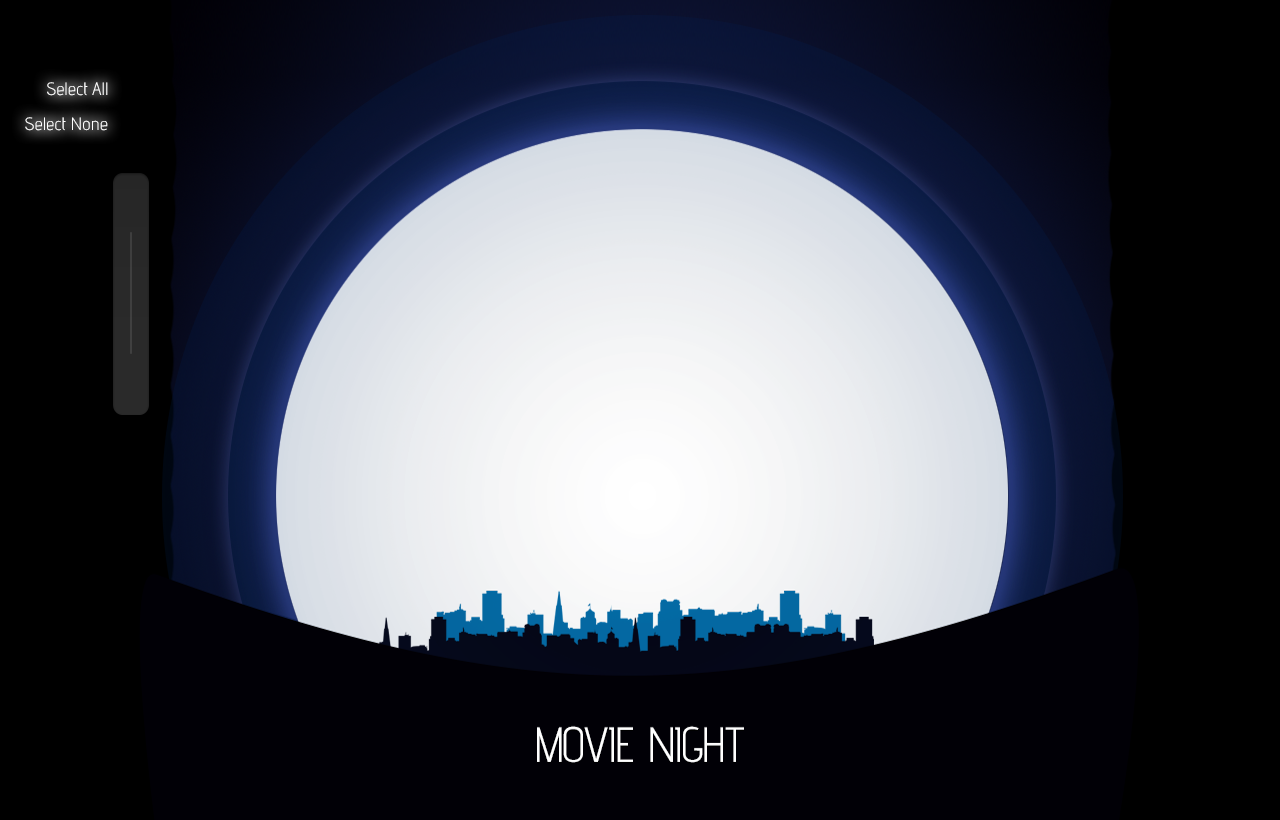
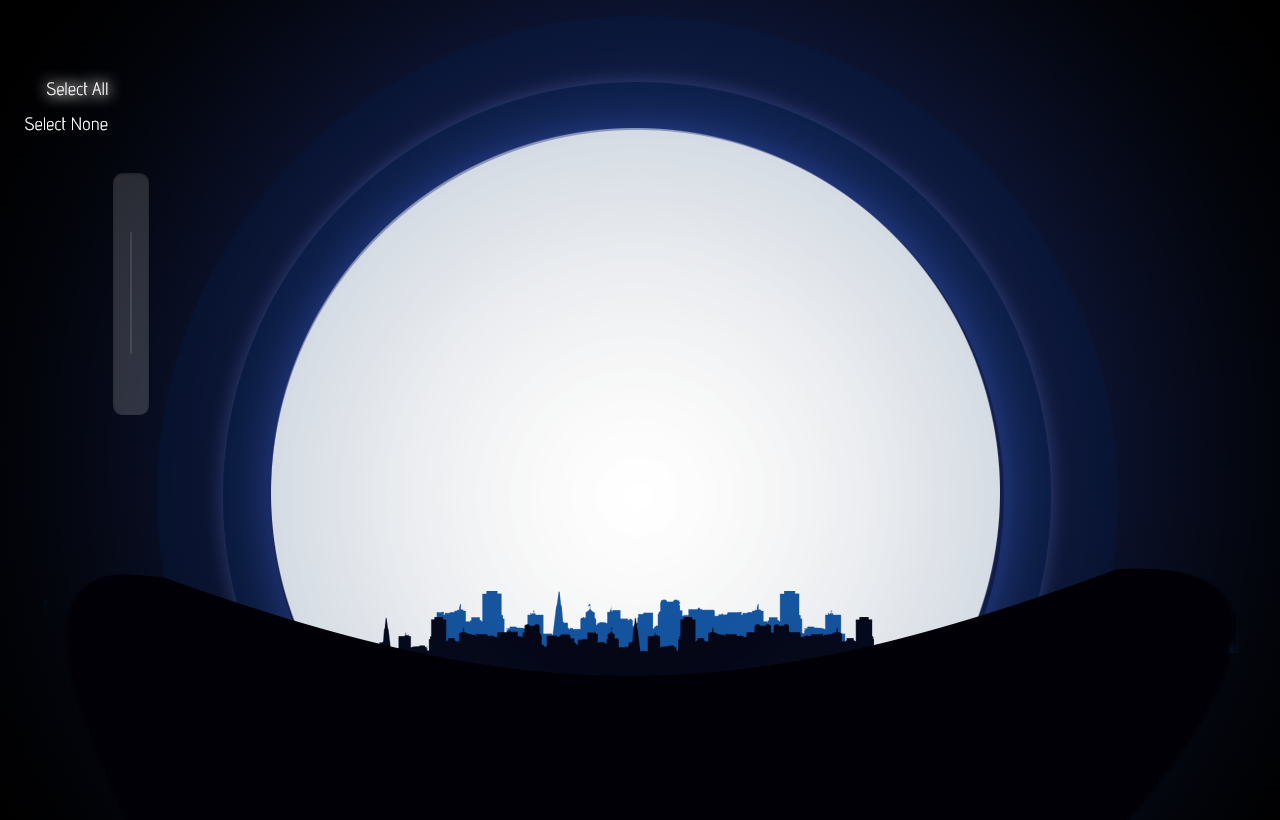
new shitz

diff --git a/js/json.js b/js/json.js
@@ -4,49 +4,58 @@ var genres = ['Action', 'Adventure', 'Comedy', 'Crime', 'Drama', 'Family', 'Fant
 
 var constellations = [{
     "title":"Superheroes",
-    "order":[24428,557,558,1452,1930,559,8960,10138,10195,49026,155,2080,36668,36658,1726,1771]
+    "order":[24428,557,558,1452,1930,559,8960,10138,10195,49026,155,2080,36668,36658,1726,1771],
+    "x":145,
+    "y":672
 },{
-    "title":"Harry Potter Galaxy",
-    "order":[671,672,673,674,675,767,12444,12445]
+    "title":"Harry Potter",
+    "order":[671,672,673,674,675,767,12444,12445],
+    "x":855,
+    "y":415,
+    "rotation":-Math.PI/180*34
 },{
-    "title":"National Treasure Galaxy",
-    "order":[2059,6637]
+    "title":"National Treasure",
+    "order":[2059,6637],
+    "x":1100,
+    "y":405,
+    "rotation":-Math.PI/180*64
 },{
-    "title":"M.I.B Galaxy",
+    "title":"M.I.B.",
     "order":[608,41154]
 },{
-    "title":"Mission Impossible Galaxy",
+    "title":"Mission Impossible",
     "order":[955,56292]
 },{
-    "title":"Museum Nights Galaxy",
+    "title":"Museum Nights",
     "order":[1593,18360]
 },{
-    "title":"Sherlock Galaxy",
+    "title":"Sherlock",
     "order":[10528,58574]
 },{
-    "title":"Apes Galaxy",
+    "title":"Apes",
     "order":[869,61791]
 },{
-    "title":"Pirates Galaxy",
+    "title":"Pirates",
     "order":[285,1865,22,58]
 },{
-    "title":"Star Wars Galaxy",
+    "title":"Star Wars",
     "order":[1894,1895]
 },{
-    "title":"Bourne Galaxy",
+    "title":"Bourne",
     "order":[2502,2503]
 },{
-    "title":"Transformers Galaxy",
-    "order":[1858,38356,8373]
+    "title":"Transformers",
+    "order":[1858,38356,8373],
+    "x":270,
+    "y":195
 },{
-    "title":"Transformers Galaxy",
-    "order":[1858,38356,8373]
-},{
-    "title":"LOTR Galaxy",
+    "title":"LOTR",
     "order":[120,122,121]
 },{
-    "title":"Vampires Galaxy",
-    "order":[8966,18239,24021,50620,50619]
+    "title":"Vampires",
+    "order":[8966,18239,24021,50620,50619],
+    "x":380,
+    "y":90
 }];
 
 var movieLocs = {

diff --git a/js/main.js b/js/main.js
@@ -75,7 +75,7 @@ $(function () {
      * year group init
      */
     var yearGroup = new Kinetic.Group({
-        x: containerWidth/2 + 2,
+        x: containerWidth/2 - 2,
         y: containerHeight/2 + 86
     });
     staticOverlayLayer.add(yearGroup);
@@ -156,7 +156,7 @@ $(function () {
      * genre group init
      */
     var genreGroup = new Kinetic.Group({
-        x: containerWidth/2 + 2,
+        x: containerWidth/2 - 2,
         y: containerHeight/2 + 86
     });
     staticOverlayLayer.add(genreGroup);
@@ -482,27 +482,6 @@ $(function () {
     //}
     });
 
-    //    /*
-    //     * background zoom hit layer
-    //     */
-    //    var backgroundZoomHitLayer = new Kinetic.Layer();
-    //    var hitRect = new Kinetic.Rect({
-    //        width: containerWidth,
-    //        height: containerHeight,
-    //        fill: 'red',
-    //        opacity: .5,
-    //        offset: [0, 0]
-    //    });
-    //    backgroundZoomHitLayer.add(hitRect);
-    //
-    //    // click handler
-    //    hitRect.on('click', function(e) {
-    //        setZoomLevel(currentZoom+1, {
-    //            x: e.layerX,
-    //            y: e.layerY
-    //        });
-    //    });
-
     /*
      * constellation layer init
      */
@@ -533,6 +512,19 @@ $(function () {
             lineCap: 'round',
             lineJoin: 'round',
             opacity: .5
+        }));
+
+        // draw the label
+        console.log(elem)
+        constellationLayer.add(new Kinetic.Text({
+            fontFamily: 'advent',
+            fontSize: 30,
+            fontStyle: 'bold',
+            fill: 'white',
+            x: elem.x || 0,
+            y: elem.y || 0,
+            rotation: elem.rotation || 0,
+            text: elem.title
         }));
     });
 

diff --git a/js/Movie.js b/js/Movie.js
@@ -47,7 +47,7 @@ function Movie(opts) {
         self.minimalGroup.draw();
 
         // set the dim circle's dimensions
-        self.dimCircle.setRadius(image.getWidth()/2 - 20);
+        self.dimCircle.setRadius(image.getWidth()/2);
     });
 
     /*
